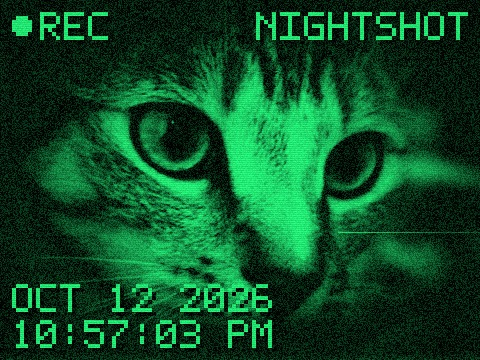
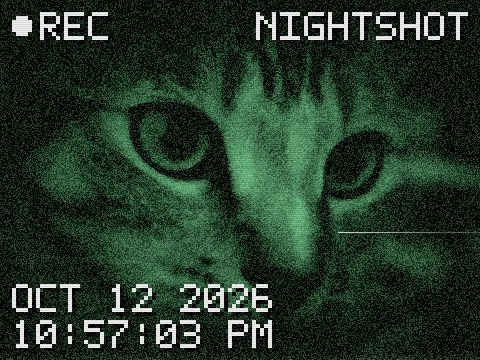
feat(nightshot): forensic UV/IR Night Cam (skin smoothing, tone curve, dual-threshold fluorescence)
Refactor of the Night Cam block to the new spec: red-heavy IR luminance with lamp hotspot; edge-preserving (bilateral-style) smoothing + contrast damping on mid tones so skin goes matte and ghostly; tone curve (toe/shoulder as params) crushing shadows to charcoal green #041207 and lifting mids to a sage phosphor (0.52,0.88,0.62); fluorescence from Rec.601 luminance between 0.78 and 0.98 in electric mint-cyan (0.80,1.0,0.95) x 0.70 with a two-ring halation and a soft shoulder instead of clipping to white; CCD smear with threshold 0.92, 10 taps, 0.82 decay, trail keeps the source colour; grain scaled by (1 - luminance) via digital.grainInverse so highlights stay crisp. Replaces night.bloom*; new params night.shadowColor/smooth/smoothSize/curveToe/curveShoulder/fluorLow/fluorHigh/fluorGain/fluorColor/halation/halationSize, lens.smearThreshold/smearTaps. Adds a cup demo image (docs/looks/night-cam-highlights.jpg, --night-demo).

diff --git a/tools/golden/render_golden.py b/tools/golden/render_golden.py
@@ -239,11 +239,19 @@ def main():
     ap.add_argument("--update", action="store_true")
     ap.add_argument("--check", action="store_true")
     ap.add_argument("--clarity-sheet", action="store_true")
+    ap.add_argument("--night-demo", action="store_true")
     ap.add_argument("--out", default="/tmp/lofi-golden")
     args = ap.parse_args()
 
     pipe = Pipeline()
     image = Image.open(INPUT).convert("RGB")
+    if args.night_demo:
+        # a ceramic cup has real white specular highlights: shows the UV-style fluorescence and the smear
+        look = next(json.loads(p.read_text()) for p in sorted((ASSETS / "looks").glob("*.json")) if json.loads(p.read_text())["id"] == "night-cam")
+        out = GOLDEN_DIR / "night-cam-highlights.jpg"
+        pipe.render_look(look, Image.open(pathlib.Path(__file__).parent / "input/cup.jpg").convert("RGB")).save(out, quality=90)
+        print("wrote", out)
+        return
     if args.clarity_sheet:
         out = GOLDEN_DIR / "clarity.jpg"
         clarity_sheet(pipe, image).save(out, quality=88)

diff --git a/docs/DESIGN.md b/docs/DESIGN.md
@@ -34,7 +34,7 @@ export size. Parameters are in virtual pixels, so output is identical at any rea
 | Pass | Does | State |
 |---|---|---|
 | ingest | rotate, mirror, centre-crop, downscale | |
-| stage 1 | jitter, interlaced-field judder, softness, chromatic aberration, chroma bleed (YIQ), tone, CCD vertical smear, bloom, vignette, night vision (IR channel mix, lamp hotspot, highlight halation, S-curve), HUD burn-in, ghost / interlace | writes the temporal history |
+| stage 1 | jitter, interlaced-field judder, softness, chromatic aberration, chroma bleed (YIQ), tone, CCD vertical smear, bloom, vignette, night vision (IR channel mix, lamp hotspot, bilateral skin smoothing, charcoal-to-sage curve, dual-threshold mint-cyan fluorescence with halation, soft shoulder), HUD burn-in, ghost / interlace | writes the temporal history |
 | stage 2 | head-switch band, dropouts, grain, scanlines, quantise + Bayer dither, palette | |
 | present | upscale to screen / export | |
 

diff --git a/README.md b/README.md
@@ -48,6 +48,10 @@ camera (CameraX Preview) -> OES texture
 * Photo capture renders the final frame again at the look's export scale and reads it back, so the saved image
   matches the preview exactly, including the upscale filter.
 
+Night Cam on a subject with real white highlights (fluorescence glow, halation, smear, crushed shadows with heavy grain):
+
+![Night Cam highlights](docs/looks/night-cam-highlights.jpg)
+
 ![Clarity levels (rows) and signal lines (columns)](docs/looks/clarity.jpg)
 
 Details: [docs/DESIGN.md](docs/DESIGN.md) and [docs/adr](docs/adr).
